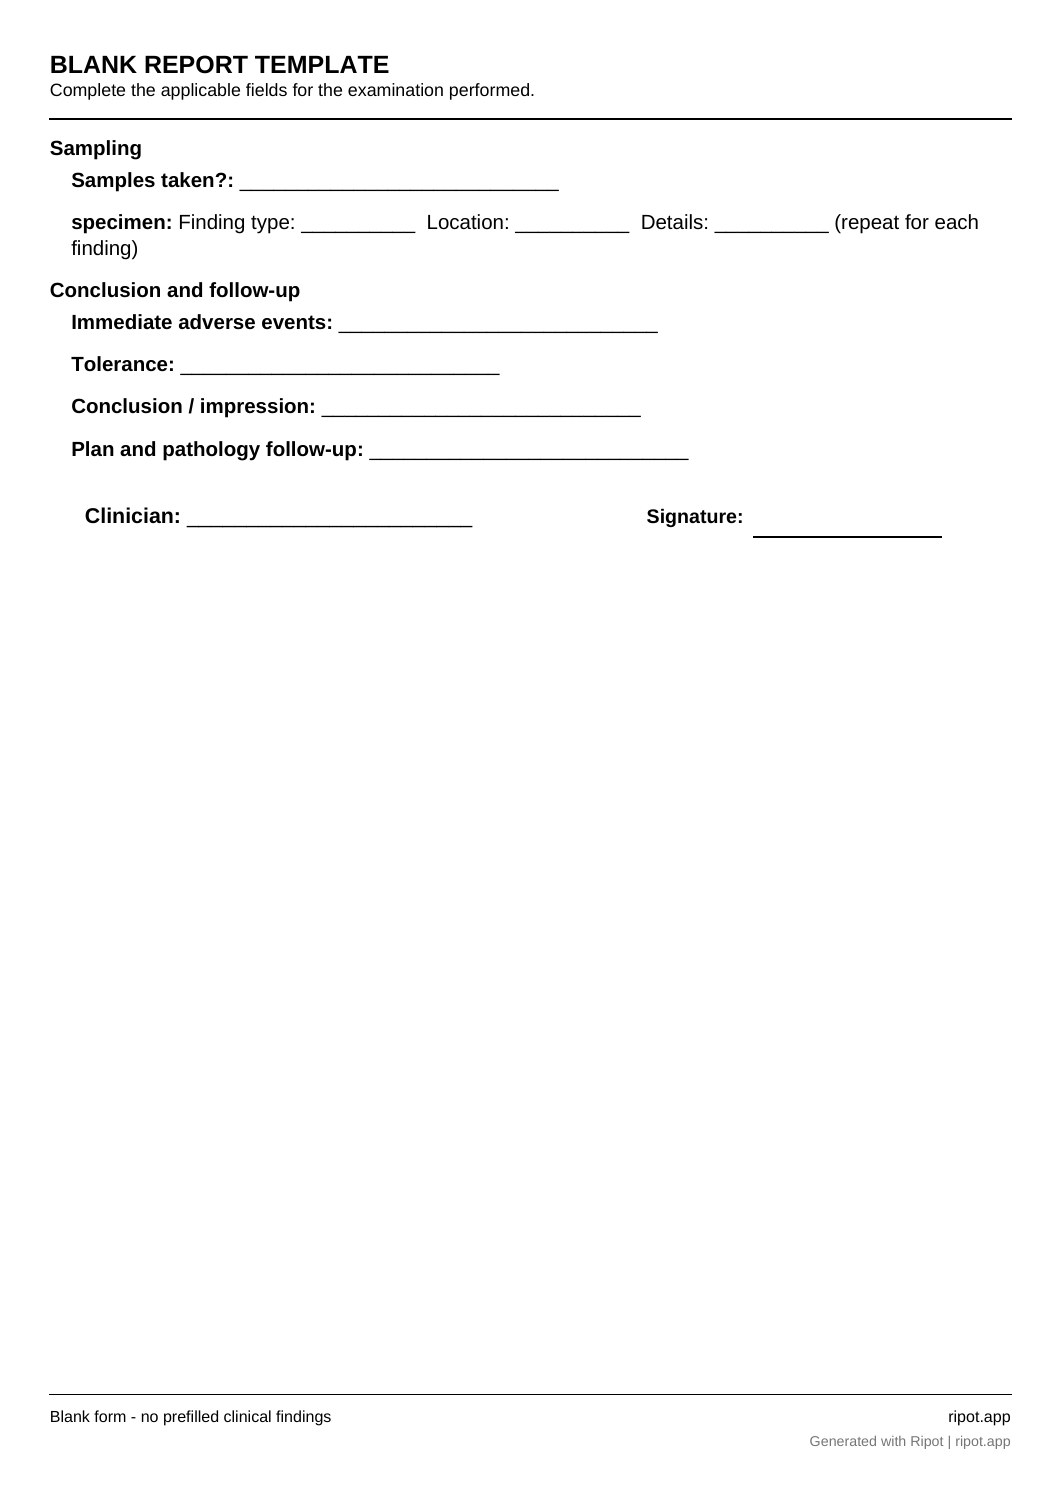
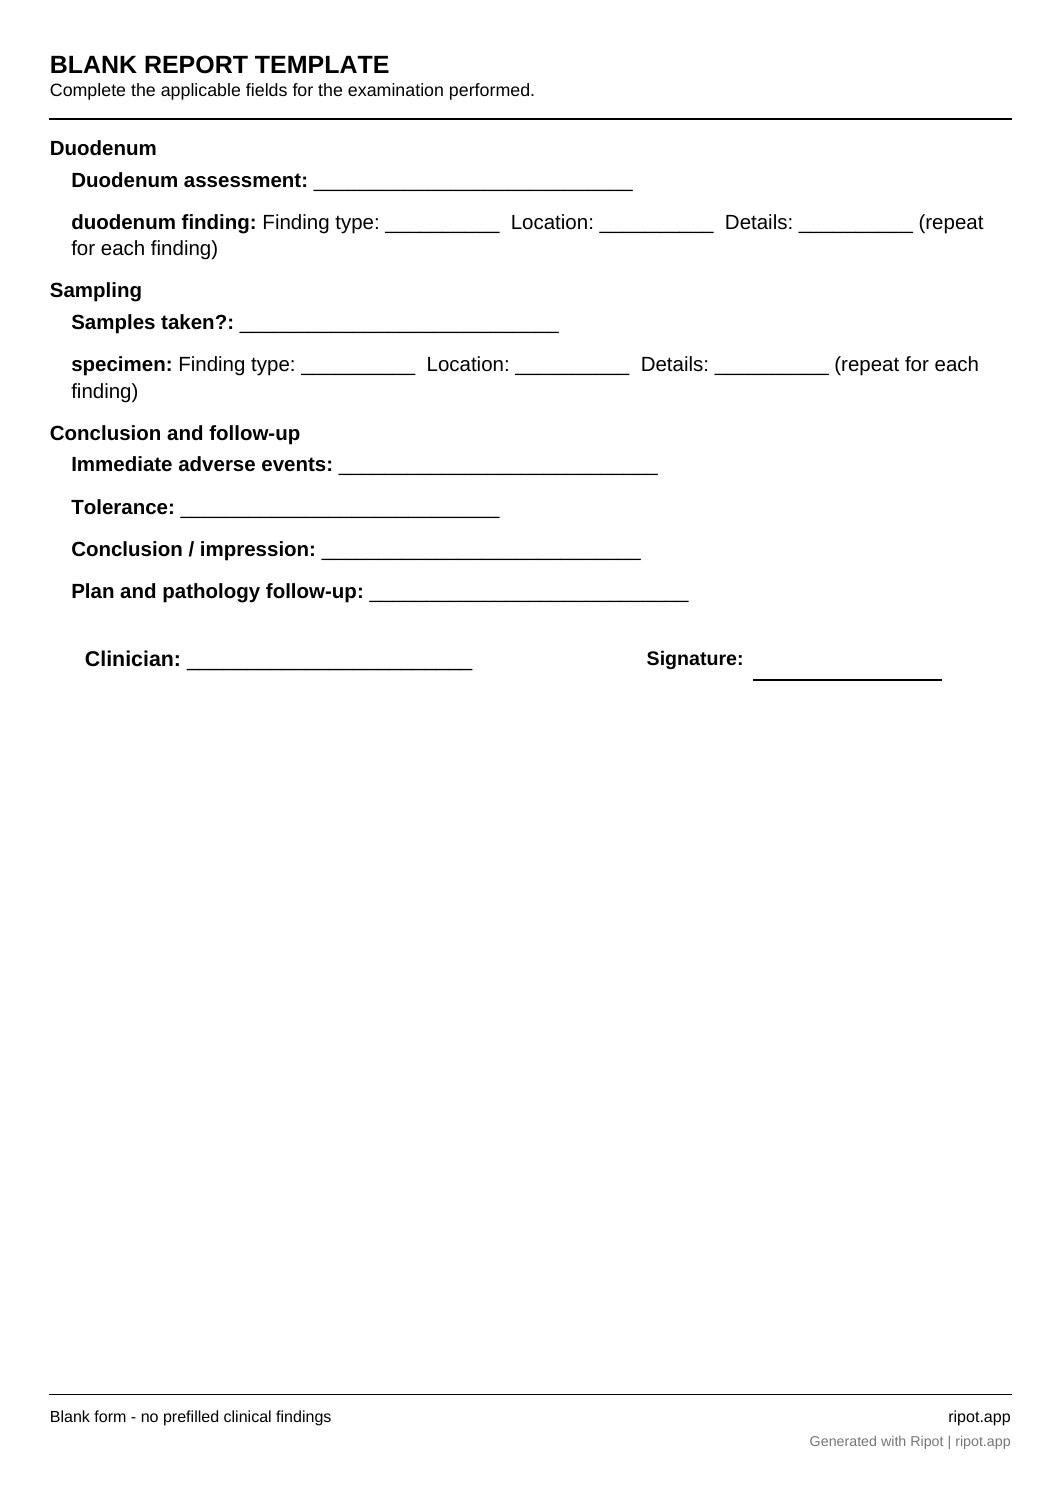
Keep measurement units visible before entry and refresh guided OGD previews

diff --git a/landing/y/templates/structured-upper-gi-endoscopy-report-template/index.html b/landing/y/templates/structured-upper-gi-endoscopy-report-template/index.html
@@ -121,4 +121,4 @@ FICTIONAL EXAMPLE - NOT FOR CLINICAL USE
 <section><details><summary>View all included fields</summary><ul class="fields"><li>Procedure</li><li>Indication</li><li>Consent</li><li>Fasting status</li><li>Anticoagulant / antiplatelet medication</li><li>Pre-procedure safety assessment</li><li>Sedation / anaesthesia</li><li>Drugs and doses, if administered</li><li>Other medications</li><li>Additional procedure details?</li><li>Endoscope used</li><li>ASA class</li><li>Extent and view</li><li>Extent reached</li><li>Quality of view</li><li>Limitations / reason for incomplete examination, if applicable</li><li>Examination duration, if recorded</li><li>Oesophagus</li><li>Oesophagus assessment</li><li>Record landmark measurements?</li><li>GEJ (top of gastric folds)</li><li>Z-line</li><li>Diaphragmatic pinch</li><li>oesophagus finding</li><li>Reflux oesophagitis</li><li>Location</li><li>Los Angeles grade</li><li>Additional description, if needed</li><li>Treatment performed?</li><li>Treatment method</li><li>Device / agent, dose and treatment details</li><li>Immediate outcome</li><li>Suspected / known Barrett’s</li><li>Location</li><li>Prague C</li><li>Prague M</li><li>Visible lesion?</li><li>Biopsy protocol</li><li>Additional description, if needed</li><li>Biopsy taken?</li><li>Specimen container / label</li><li>Sampling details, if needed</li><li>Treatment performed?</li><li>Treatment method</li><li>Device / agent, dose and treatment details</li><li>Immediate outcome</li><li>Hiatal hernia</li><li>Location</li><li>Axial length</li><li>Hill grade</li><li>Additional description, if needed</li><li>Treatment performed?</li><li>Treatment method</li><li>Device / agent, dose and treatment details</li><li>Immediate outcome</li><li>EoE features</li><li>Location</li><li>Oedema</li><li>Rings</li><li>Exudates</li><li>Furrows</li><li>Stricture</li><li>Additional description, if needed</li><li>Biopsy taken?</li><li>Specimen container / label</li><li>Sampling details, if needed</li><li>Treatment performed?</li><li>Treatment method</li><li>Device / agent, dose and treatment details</li><li>Immediate outcome</li><li>Oesophageal varices</li><li>Location</li><li>Size</li><li>Red signs</li><li>Bleeding</li><li>Additional description, if needed</li><li>Treatment performed?</li><li>Treatment method</li><li>Device / agent, dose and treatment details</li><li>Immediate outcome</li><li>Ring / web / stricture</li><li>Location</li><li>Level</li><li>Type</li><li>Length</li><li>Minimum diameter</li><li>Additional description, if needed</li><li>Biopsy taken?</li><li>Specimen container / label</li><li>Sampling details, if needed</li><li>Treatment performed?</li><li>Treatment method</li><li>Device / agent, dose and treatment details</li><li>Immediate outcome</li><li>Suspected candidiasis</li><li>Location</li><li>Additional description, if needed</li><li>Biopsy taken?</li><li>Specimen container / label</li><li>Sampling details, if needed</li><li>Treatment performed?</li><li>Treatment method</li><li>Device / agent, dose and treatment details</li><li>Immediate outcome</li><li>Ulcer</li><li>Location</li><li>Level</li><li>Size</li><li>Number at this location</li><li>Bleeding stigmata / Forrest category</li><li>Additional description, if needed</li><li>Biopsy taken?</li><li>Specimen container / label</li><li>Sampling details, if needed</li><li>Treatment performed?</li><li>Treatment method</li><li>Device / agent, dose and treatment details</li><li>Immediate outcome</li><li>Mass / lesion</li><li>Location</li><li>Level</li><li>Size</li><li>Morphology</li><li>Additional description, if needed</li><li>Biopsy taken?</li><li>Specimen container / label</li><li>Sampling details, if needed</li><li>Treatment performed?</li><li>Treatment method</li><li>Device / agent, dose and treatment details</li><li>Immediate outcome</li><li>Other finding</li><li>Location</li><li>Level</li><li>Additional description, if needed</li><li>Biopsy taken?</li><li>Specimen container / label</li><li>Sampling details, if needed</li><li>Treatment performed?</li><li>Treatment method</li><li>Device / agent, dose and treatment details</li><li>Immediate outcome</li><li>Stomach</li><li>Stomach assessment</li><li>stomach finding</li><li>Ulcer</li><li>Location</li><li>Surface / curvature, if relevant</li><li>Size</li><li>Number at this location</li><li>Bleeding stigmata / Forrest category</li><li>Additional description, if needed</li><li>Biopsy taken?</li><li>Specimen container / label</li><li>Sampling details, if needed</li><li>Treatment performed?</li><li>Treatment method</li><li>Device / agent, dose and treatment details</li><li>Immediate outcome</li><li>Gastritis / erythema</li><li>Location</li><li>Surface / curvature, if relevant</li><li>Additional description, if needed</li><li>Biopsy taken?</li><li>Specimen container / label</li><li>Sampling details, if needed</li><li>Treatment performed?</li><li>Treatment method</li><li>Device / agent, dose and treatment details</li><li>Immediate outcome</li><li>Erosions</li><li>Location</li><li>Surface / curvature, if relevant</li><li>Additional description, if needed</li><li>Biopsy taken?</li><li>Specimen container / label</li><li>Sampling details, if needed</li><li>Treatment performed?</li><li>Treatment method</li><li>Device / agent, dose and treatment details</li><li>Immediate outcome</li><li>Polyp</li><li>Location</li><li>Surface / curvature, if relevant</li><li>Size</li><li>Morphology</li><li>Additional description, if needed</li><li>Biopsy taken?</li><li>Specimen container / label</li><li>Sampling details, if needed</li><li>Treatment performed?</li><li>Treatment method</li><li>Device / agent, dose and treatment details</li><li>Immediate outcome</li><li>Mass / lesion</li><li>Location</li><li>Surface / curvature, if relevant</li><li>Size</li><li>Morphology</li><li>Additional description, if needed</li><li>Biopsy taken?</li><li>Specimen container / label</li><li>Sampling details, if needed</li><li>Treatment performed?</li><li>Treatment method</li><li>Device / agent, dose and treatment details</li><li>Immediate outcome</li><li>Suspected atrophy / intestinal metaplasia</li><li>Location</li><li>Surface / curvature, if relevant</li><li>Appearance</li><li>Additional description, if needed</li><li>Biopsy taken?</li><li>Specimen container / label</li><li>Sampling details, if needed</li><li>Treatment performed?</li><li>Treatment method</li><li>Device / agent, dose and treatment details</li><li>Immediate outcome</li><li>Gastric varices</li><li>Location</li><li>Surface / curvature, if relevant</li><li>Sarin type</li><li>Bleeding</li><li>Additional description, if needed</li><li>Treatment performed?</li><li>Treatment method</li><li>Device / agent, dose and treatment details</li><li>Immediate outcome</li><li>Portal hypertensive gastropathy</li><li>Location</li><li>Surface / curvature, if relevant</li><li>Severity</li><li>Additional description, if needed</li><li>Treatment performed?</li><li>Treatment method</li><li>Device / agent, dose and treatment details</li><li>Immediate outcome</li><li>GAVE</li><li>Location</li><li>Surface / curvature, if relevant</li><li>Additional description, if needed</li><li>Treatment performed?</li><li>Treatment method</li><li>Device / agent, dose and treatment details</li><li>Immediate outcome</li><li>Retained food / fluid</li><li>Location</li><li>Surface / curvature, if relevant</li><li>Additional description, if needed</li><li>Treatment performed?</li><li>Treatment method</li><li>Device / agent, dose and treatment details</li><li>Immediate outcome</li><li>Post-surgical anatomy</li><li>Location</li><li>Surface / curvature, if relevant</li><li>Additional description, if needed</li><li>Treatment performed?</li><li>Treatment method</li><li>Device / agent, dose and treatment details</li><li>Immediate outcome</li><li>Other finding</li><li>Location</li><li>Surface / curvature, if relevant</li><li>Additional description, if needed</li><li>Biopsy taken?</li><li>Specimen container / label</li><li>Sampling details, if needed</li><li>Treatment performed?</li><li>Treatment method</li><li>Device / agent, dose and treatment details</li><li>Immediate outcome</li><li>Duodenum</li><li>Duodenum assessment</li><li>duodenum finding</li><li>Ulcer</li><li>Location</li><li>Size</li><li>Number at this location</li><li>Bleeding stigmata / Forrest category</li><li>Additional description, if needed</li><li>Biopsy taken?</li><li>Specimen container / label</li><li>Sampling details, if needed</li><li>Treatment performed?</li><li>Treatment method</li><li>Device / agent, dose and treatment details</li><li>Immediate outcome</li><li>Erosions / duodenitis</li><li>Location</li><li>Additional description, if needed</li><li>Biopsy taken?</li><li>Specimen container / label</li><li>Sampling details, if needed</li><li>Treatment performed?</li><li>Treatment method</li><li>Device / agent, dose and treatment details</li><li>Immediate outcome</li><li>Suspected villous atrophy</li><li>Location</li><li>Appearance</li><li>Additional description, if needed</li><li>Biopsy taken?</li><li>Specimen container / label</li><li>Sampling details, if needed</li><li>Treatment performed?</li><li>Treatment method</li><li>Device / agent, dose and treatment details</li><li>Immediate outcome</li><li>Polyp</li><li>Location</li><li>Size</li><li>Morphology</li><li>Additional description, if needed</li><li>Biopsy taken?</li><li>Specimen container / label</li><li>Sampling details, if needed</li><li>Treatment performed?</li><li>Treatment method</li><li>Device / agent, dose and treatment details</li><li>Immediate outcome</li><li>Mass / ampullary lesion</li><li>Location</li><li>Size</li><li>Morphology</li><li>Additional description, if needed</li><li>Biopsy taken?</li><li>Specimen container / label</li><li>Sampling details, if needed</li><li>Treatment performed?</li><li>Treatment method</li><li>Device / agent, dose and treatment details</li><li>Immediate outcome</li><li>Stenosis</li><li>Location</li><li>Size</li><li>Additional description, if needed</li><li>Biopsy taken?</li><li>Specimen container / label</li><li>Sampling details, if needed</li><li>Treatment performed?</li><li>Treatment method</li><li>Device / agent, dose and treatment details</li><li>Immediate outcome</li><li>Diverticulum</li><li>Location</li><li>Additional description, if needed</li><li>Treatment performed?</li><li>Treatment method</li><li>Device / agent, dose and treatment details</li><li>Immediate outcome</li><li>Other finding</li><li>Location</li><li>Additional description, if needed</li><li>Biopsy taken?</li><li>Specimen container / label</li><li>Sampling details, if needed</li><li>Treatment performed?</li><li>Treatment method</li><li>Device / agent, dose and treatment details</li><li>Immediate outcome</li><li>Sampling</li><li>Samples taken?</li><li>specimen</li><li>Specimen</li><li>Container / label</li><li>Region</li><li>Precise site / linked finding</li><li>Number of samples</li><li>Sampling protocol</li><li>Conclusion and follow-up</li><li>Immediate adverse events</li><li>Tolerance</li><li>Conclusion / impression</li><li>Plan and pathology follow-up</li></ul></details></section>
 <section class="outline-box"><h2>Using this reporting structure</h2><h3>Routine reporting first</h3><p>Enter patient or hospital identification in Subject info and use the existing report date and signing details. Assess each region explicitly: Normal, Abnormal, Not examined or Cannot assess. No normal findings are preselected. An abnormal assessment reveals follow-up prompts; unused details are omitted from the completed example.</p><h3>Detail only where it helps</h3><p>Additional procedure details are optional. Record the extent reached, quality of view and any limitations. Describe each lesion separately with its anatomical location, size where relevant and appearance. Choose Add finding, select its type and complete the relevant options. Add another entry when the location or description differs. Findings remain separate and are grouped by location in the PDF. This template requires Ripot 1.0.20 or later.</p><h3>Measurements with clear units</h3><p>Select Record landmark measurements when needed to enter the GEJ (top of gastric folds), Z-line and diaphragmatic pinch as separate numbers in cm from the incisors. Individual oesophageal ulcers, strictures and lesions also offer a numeric level. Lesion size is entered in mm; Prague C/M and hernia length use cm. Leave measurements blank if they were not recorded. Enter only the number: Ripot displays the unit and includes it in the report.</p><h3>Sampling, treatment and images</h3><p>Selecting sampling or treatment reveals its details. Identify specimens by site and container, link treatment to its finding and document the outcome. Use Ripot’s existing image attachments rather than a duplicate photograph checklist. Review the conclusion and follow-up before signing.</p><h3>Research and Registry stay separate</h3><p>This template does not enable Registry fields or require research data. Configure those features separately for your project. Formal visibility scales and quality-audit checklists are not included in this routine form. The ESGE guidance informed the structure; this simplified template does not claim to capture every reporting standard or to be independently clinically validated.</p><p class="note">Documentation help, not clinical guidance. Use current specialty guidance and local protocols. Review every report before signing or sharing.</p></section><section><h2>Explore other templates</h2><div class="cards"><article class="card"><span class="eyebrow">Gastroenterology</span><h2><a href="/templates/colonoscopy-report-template/">Colonoscopy report template</a></h2><p>Record bowel preparation, segmental findings, interventions and impressions in a reusable colonoscopy report.</p><p class="note">Contributor: Ripot · Starter template</p><a href="/templates/colonoscopy-report-template/">Preview and use →</a></article><article class="card"><span class="eyebrow">Gastroenterology</span><h2><a href="/templates/upper-gi-endoscopy-report-template/">Upper GI endoscopy report template</a></h2><p>An OGD / EGD reporting structure covering indication, sedation, anatomical findings, interventions and impression.</p><p class="note">Contributor: Ripot · Starter template</p><a href="/templates/upper-gi-endoscopy-report-template/">Preview and use →</a></article><article class="card"><span class="eyebrow">Gastroenterology</span><h2><a href="/templates/flexible-sigmoidoscopy-report-template/">Flexible sigmoidoscopy report template</a></h2><p>Document the examined lower bowel, preparation, extent, lesions, sampling and follow-up in an editable flexible sigmoidoscopy report.</p><p class="note">Contributor: Ripot · Starter template</p><a href="/templates/flexible-sigmoidoscopy-report-template/">Preview and use →</a></article><article class="card"><span class="eyebrow">Radiology</span><h2><a href="/templates/abdominal-ultrasound-report-template/">Abdominal ultrasound report template</a></h2><p>A reusable abdominopelvic ultrasound structure for organ findings, measurements and impression.</p><p class="note">Contributor: Ripot · Starter template</p><a href="/templates/abdominal-ultrasound-report-template/">Preview and use →</a></article></div></section>
 <dialog class="zoom-dialog" id="report-zoom" aria-label="Enlarged report preview"><div class="zoom-toolbar"><strong data-zoom-title>Report preview</strong><button class="secondary" type="button" data-zoom-toggle>Zoom in</button><button type="button" data-close>Close preview</button></div><div class="zoom-body"><img alt="Enlarged report preview"></div><p class="zoom-help">Zoom in to read the text. On a phone, drag to move around the enlarged page.</p></dialog>
[2 lines of base64/hex data omitted]

diff --git a/lib/features/reports/ui/report_editor_screen.dart b/lib/features/reports/ui/report_editor_screen.dart
@@ -1807,7 +1807,21 @@ class _ReportEditorScreenState extends State<ReportEditorScreen>
               decoration: InputDecoration(
                 border: const OutlineInputBorder(),
                 hintText: 'Enter number…',
-                suffixText: unit.isEmpty ? null : unit,
+                // Keep the unit visible even while this field is blank and
+                // unfocused, so the expected measurement is clear up front.
+                suffixIcon: unit.isEmpty
+                    ? null
+                    : Padding(
+                        padding: const EdgeInsets.symmetric(horizontal: 12),
+                        child: Align(
+                          alignment: Alignment.centerRight,
+                          widthFactor: 1,
+                          heightFactor: 1,
+                          child: Text(unit, textAlign: TextAlign.right),
+                        ),
+                      ),
+                suffixIconConstraints:
+                    const BoxConstraints(minHeight: 48, maxWidth: 156),
                 isDense: true,
               ),
               onChanged: (v) => vm.updateContent(node.id, v),

diff --git a/tools/web/package_release.py b/tools/web/package_release.py
@@ -51,6 +51,10 @@ one Add finding control per region, and independent repeated finding cards.
 The PDF groups findings by anatomical location. Ordinary template links now
 fetch the approval catalogue and versioned template concurrently and show
 Opening your template while loading. Checksums and approval checks remain.
+Optional numeric GEJ, Z-line and diaphragmatic-pinch measurements use
+cm from incisors, as do individual oesophageal lesion levels. Units remain
+visible in blank numeric fields. Enter the number only; blank optional
+measurements are omitted from the PDF.
 
 For this update, deploy in this order from this complete folder:
   bash Deploy-Web.command
